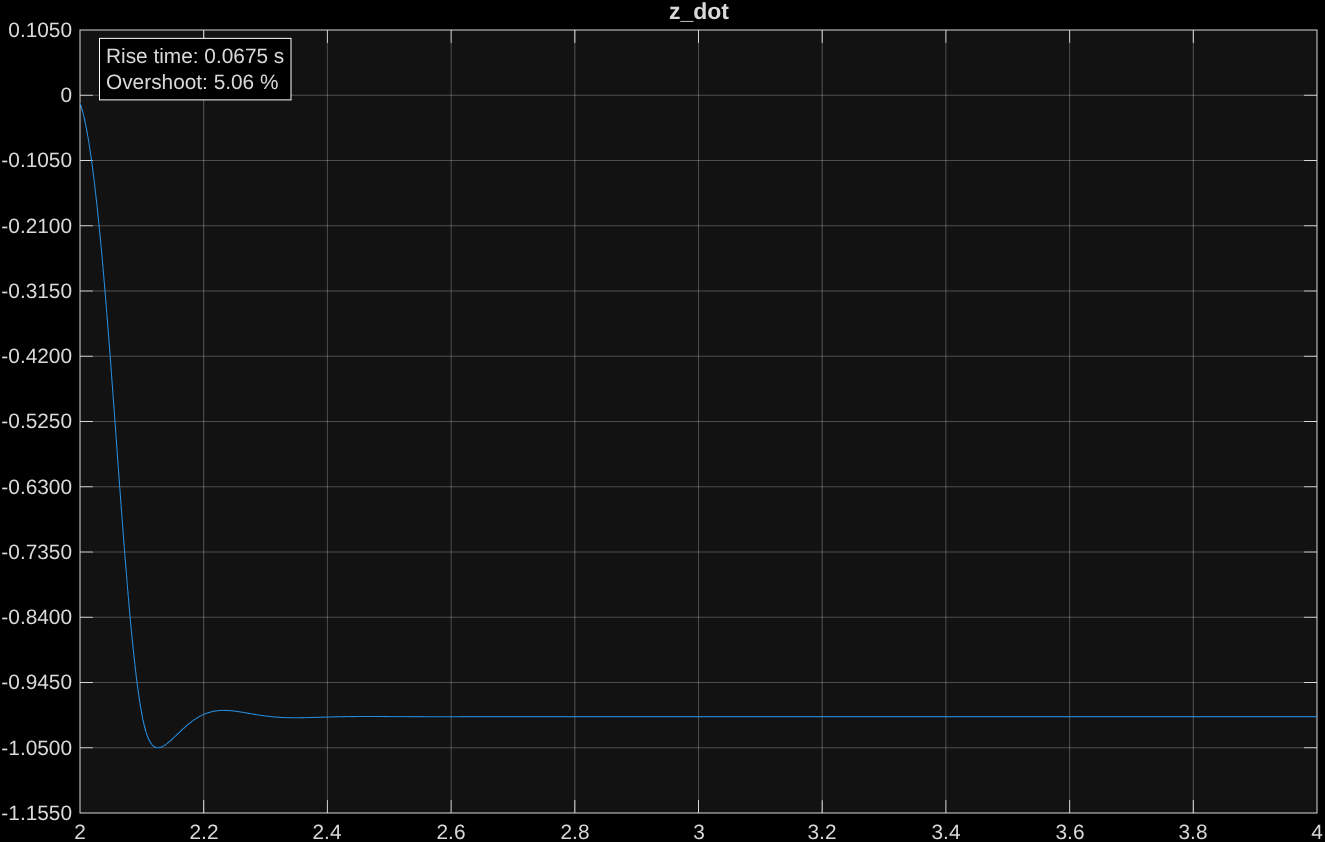
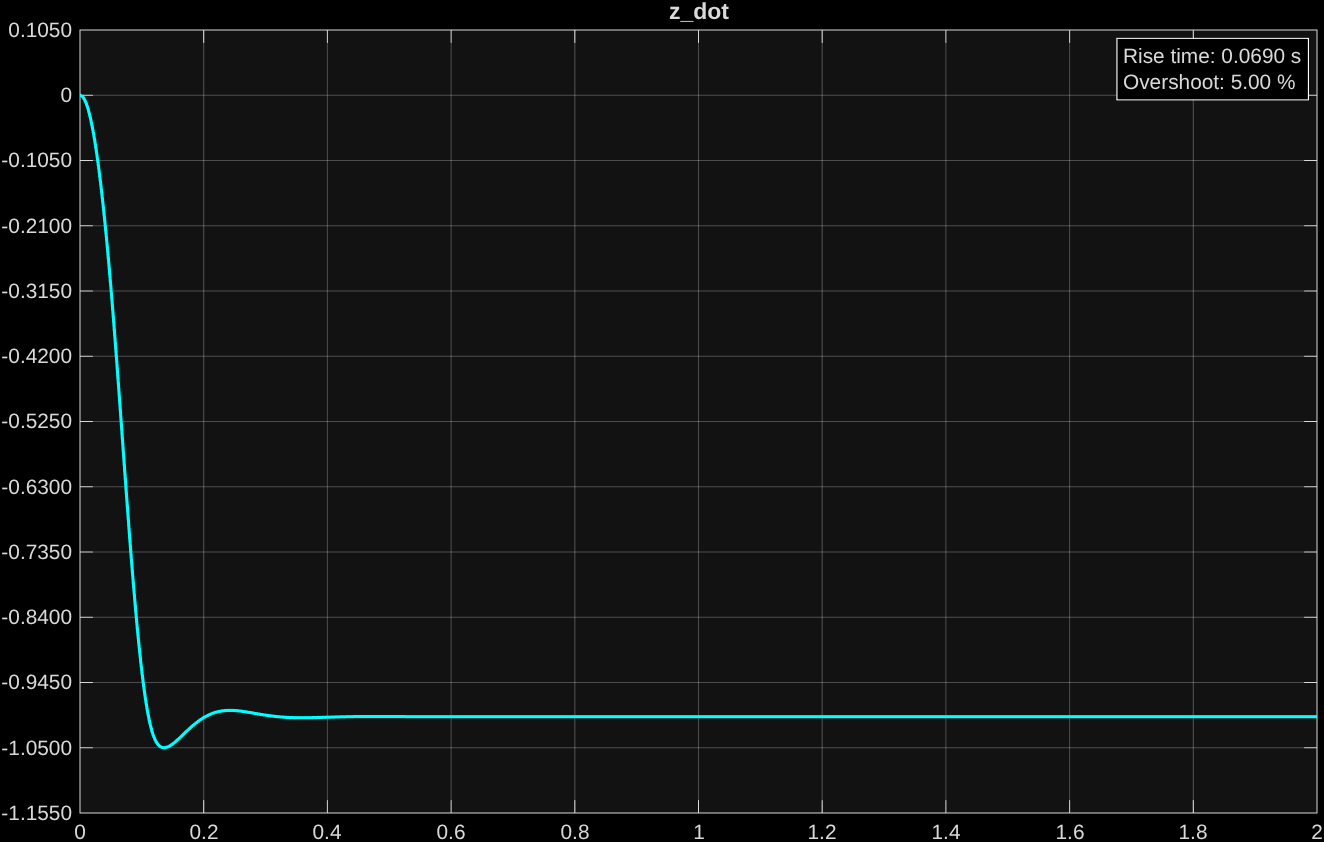
Plot z_dot

diff --git a/plot_whatever.m b/plot_whatever.m
@@ -1,7 +1,7 @@
 plot_angular_vel = 0;
 plot_states = 1;
 plot_all = 0;
-k = [9];
+k = [12];
 
 phi = S_log(:,1);
 theta = S_log(:,2);
@@ -229,7 +229,7 @@ if(plot_states == 1)
 
     for i = k
             figure
-            plot(t_log, Sm(:,i))
+            plot(t_log, Sm(:,i), "LineWidth", 1.5, "Color", 'c')
             title(label(:, i));
 
             yrange = max(Sm(:,i)) - min(Sm(:,i));
@@ -242,7 +242,7 @@ if(plot_states == 1)
             l = 0;
             % l = 2;
             k = max(t_log);
-            k = 4;
+            k = 2;
             xlim([l k]);
             xticks(linspace(l, k, 11));
             grid on
@@ -284,7 +284,7 @@ if(plot_states == 1)
                 % fprintf('Overshoot: %.2f %%\n', overshoot);
 
                 metric_text = sprintf('Rise time: %.4f s\nOvershoot: %.2f %%', rise_time, overshoot);
-                text(0.02, 0.98, metric_text, ...
+                text(0.8425, 0.98, metric_text, ...
                     'Units', 'normalized', ...
                     'VerticalAlignment', 'top', ...
                     'BackgroundColor', 'black', ...

diff --git a/input.m b/input.m
@@ -1,9 +1,9 @@
 if(i < 100)
-    S_d = [0; 0; 0; -1];
-    % rates_d = [0; 0; 0; 0];
-elseif(i >= 200)
-    S_d = [0; 0; 0; -1];
-    % rates_d = [0; 0; 0; -1];
+    % S_d = [0; 0; 0; -1];
+    rates_d = [0; 0; 0; -1];
+elseif(i >= 100)
+    % S_d = [0; 0; 0; -1];
+    rates_d = [0; 0; 0; -1];
 % elseif(i >= 300)
     % S_d = [0; 0.08; 0.1; 0];
     % rates_d = [0.1; 0.1; 0; 0];

diff --git a/main.m b/main.m
@@ -42,7 +42,7 @@ for i = 1:n-1
     counter = counter + 1;
     if(counter == 10)
         counter = 1;
-        outer_controller_p;
+        % outer_controller_p;
     end
 
     inner_controller;
